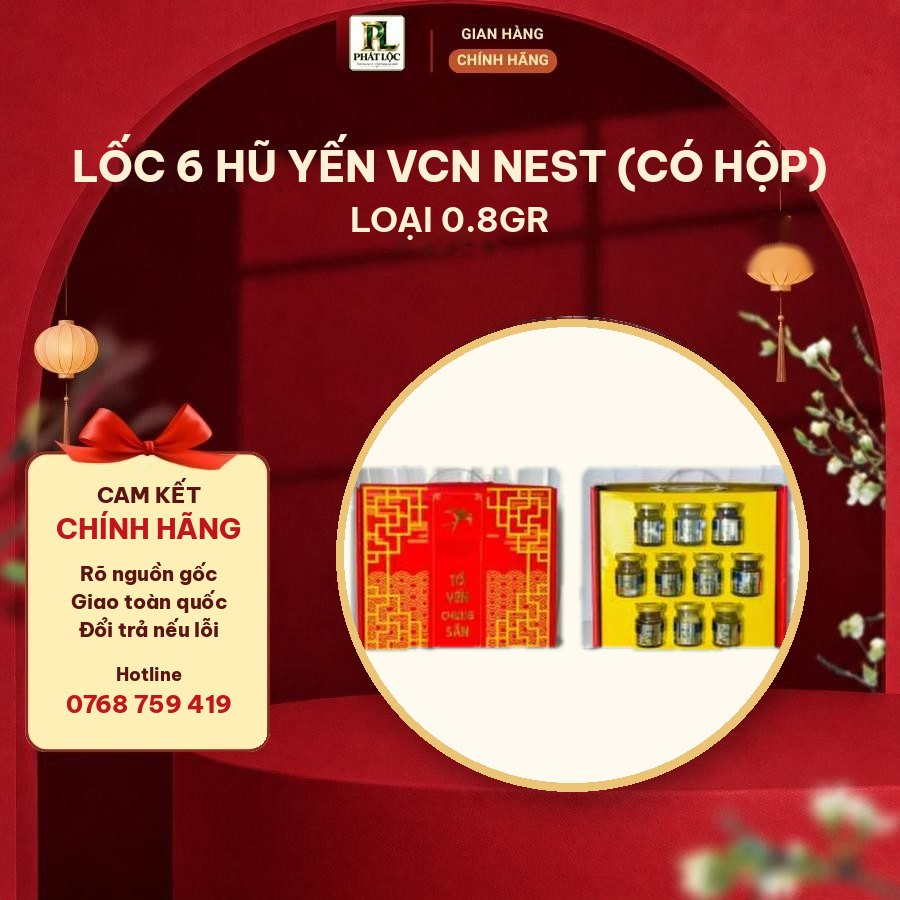
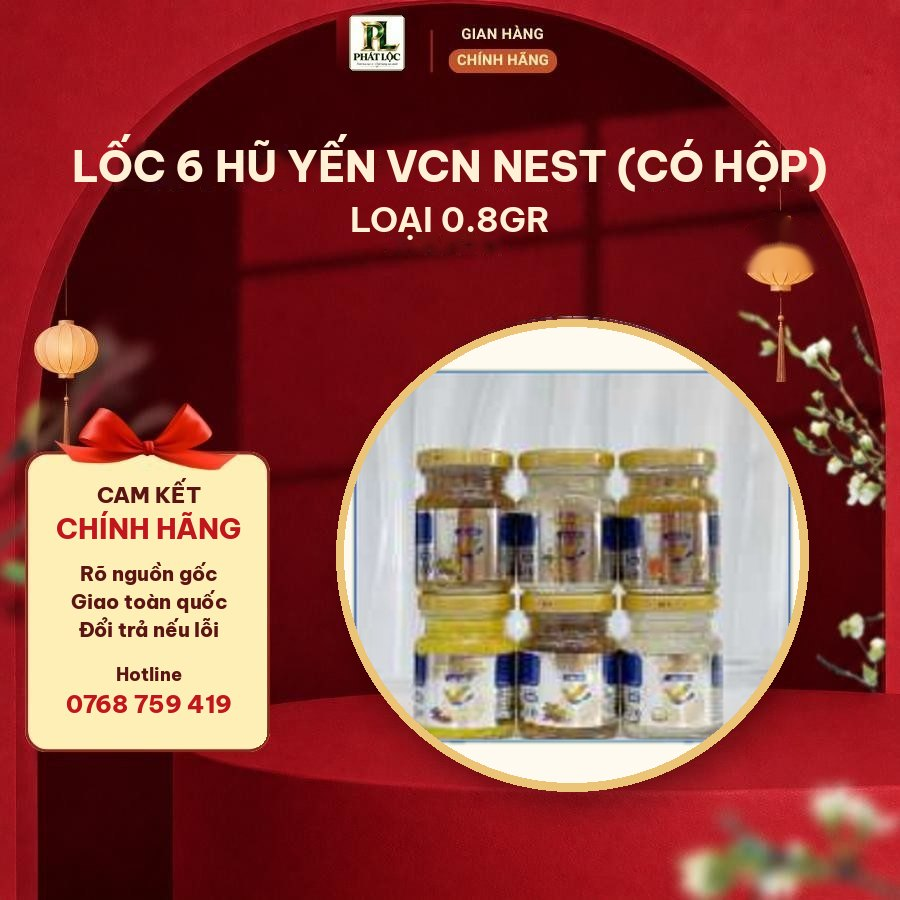
Sửa ảnh sai cho 111, 125, 132-135 (#15)
* Sửa ảnh sai cho 111, 125, 132, 133

111 dùng ảnh 1 lớp sợi 18-20 tai thay ảnh vụn; 125 dùng ảnh hũ 200ml; 132, 133
dùng ảnh lốc 6 hũ VCN Nest thay ảnh hộp quà khác. IMG_V lên v=8.

Claude-Session: https://claude.ai/code/session_01UhDdGQ9quzkXf97RrXqye8

* Sửa ảnh lốc 10 hũ VCN Nest có hộp (134, 135)

Đổi ảnh hộp quà "Tổ Yến Chưng" sang ảnh lốc 10 hũ VCN Nest.

Claude-Session: https://claude.ai/code/session_01UhDdGQ9quzkXf97RrXqye8

---------

Changed region(s): [[0.3733, 0.4044, 0.9022, 0.84]]

diff --git a/index.html b/index.html
@@ -434,7 +434,7 @@ const IMG = {
   108: ["khung/108.jpg", "that/yen-tinh-che-soi-ngan-sach.jpg", "yen-tinh-che-soi-ngan-1.jpg", "yen-tinh-che-soi-ngan-2.jpg", "yen-tinh-che-soi-ngan-3.jpg", "catalog/tinh-che-soi-ngan-dau-chan.jpg"],
   109: ["khung/109.jpg", "that/tinh-che-1-lop-soi-vua-that-1.jpg", "catalog/tinh-che-1-lop-soi-vua.jpg"],
   110: ["khung/110.jpg", "catalog/tinh-che-1-lop-soi-10-tai.jpg"],
-  111: ["khung/111.jpg", "that/tinh-che-18-20-tai-that-1.jpg", "catalog/tinh-che-1-lop-soi-18-20-tai.jpg"],
+  111: ["khung/111.jpg", "catalog/tinh-che-1-lop-soi-18-20-tai.jpg"],
   112: ["khung/112.jpg", "catalog/tinh-che-2-lop-soi.jpg"],
   113: ["khung/113.jpg", "that/yen-rut-long-dap-to-sach.jpg", "yen-rut-long-dap-to-1.jpg", "yen-rut-long-dap-to-2.jpg", "yen-rut-long-dap-to-3.jpg", "catalog/rut-long-dap-to.jpg"],
   114: ["khung/114.jpg", "that/rut-long-dinh-hinh-that-1.jpg", "catalog/rut-long-dinh-hinh.jpg"],
@@ -448,17 +448,17 @@ const IMG = {
   122: ["khung/122.jpg", "catalog/dap-mieng-soi-vuong.jpg"],
   123: ["khung/123.jpg", "catalog/vuong-mieng-lon.jpg"],
   124: ["khung/124.jpg", "that/nuoc-yen-chung-duong-phen.jpg", "that/nuoc-yen-chung-cho-be.jpg", "that/nuoc-yen-chung-cho-me-bau.jpg", "catalog/yen-chung-thu-cong-70ml.jpg"],
-  125: ["khung/125.jpg", "that/nuoc-yen-chung-thu-cong-that-1.jpg", "catalog/yen-chung-thu-cong-200ml.jpg"],
+  125: ["khung/125.jpg", "catalog/yen-chung-thu-cong-200ml.jpg"],
   126: ["khung/126.jpg", "catalog/vcn-nest-0-3gr.jpg"],
   127: ["khung/127.jpg", "catalog/vcn-nest-0-8gr.jpg"],
   128: ["khung/128.jpg", "catalog/vcn-nest-loc-6-0-3gr.jpg"],
   129: ["khung/129.jpg", "catalog/vcn-nest-loc-6-0-3gr.jpg"],
   130: ["khung/130.jpg", "catalog/vcn-nest-loc-10-0-3gr.jpg"],
   131: ["khung/131.jpg", "catalog/vcn-nest-loc-10-0-3gr.jpg"],
-  132: ["khung/132.jpg", "catalog/vcn-nest-loc-6-hop-0-3gr.jpg"],
-  133: ["khung/133.jpg", "catalog/vcn-nest-loc-6-hop-0-3gr.jpg"],
-  134: ["khung/134.jpg", "catalog/vcn-nest-loc-10-hop-0-3gr.jpg"],
-  135: ["khung/135.jpg", "catalog/vcn-nest-loc-10-hop-0-3gr.jpg"],
+  132: ["khung/132.jpg", "catalog/vcn-nest-loc-6-0-3gr.jpg"],
+  133: ["khung/133.jpg", "catalog/vcn-nest-loc-6-0-3gr.jpg"],
+  134: ["khung/134.jpg", "catalog/vcn-nest-loc-10-0-3gr.jpg"],
+  135: ["khung/135.jpg", "catalog/vcn-nest-loc-10-0-3gr.jpg"],
   136: ["khung/136.jpg", "dong-trung-ha-thao-5.jpg", "dong-trung-ha-thao-1.jpg", "dong-trung-ha-thao-4.jpg", "catalog/nam-dong-trung-loai-cay-100gr.jpg"],
   137: ["khung/137.jpg", "dong-trung-ha-thao-2.jpg", "catalog/nam-dong-trung-loai-cay-100gr.jpg"],
   138: ["khung/138.jpg", "that/dong-trung-loai-gay-that-1.jpg", "catalog/nam-dong-trung-loai-gay.jpg"],
@@ -535,7 +535,7 @@ const SETS = [
 ];
 const DIR = "images/san-pham/";
 // Đổi số phiên bản khi thay ảnh catalog để trình duyệt tải ảnh mới thay vì ảnh cũ đã lưu.
-const IMG_V = "?v=7";
+const IMG_V = "?v=8";
 const full = f => DIR + f + (/^(catalog|that|khung)\//.test(f) ? IMG_V : "");
 const thumb = f => /^(catalog|that)\//.test(f) ? full(f) : DIR + "nho/" + f + (/^khung\//.test(f) ? IMG_V : "");
 const lb = document.getElementById("lb"), lbImg = document.getElementById("lb-img");
